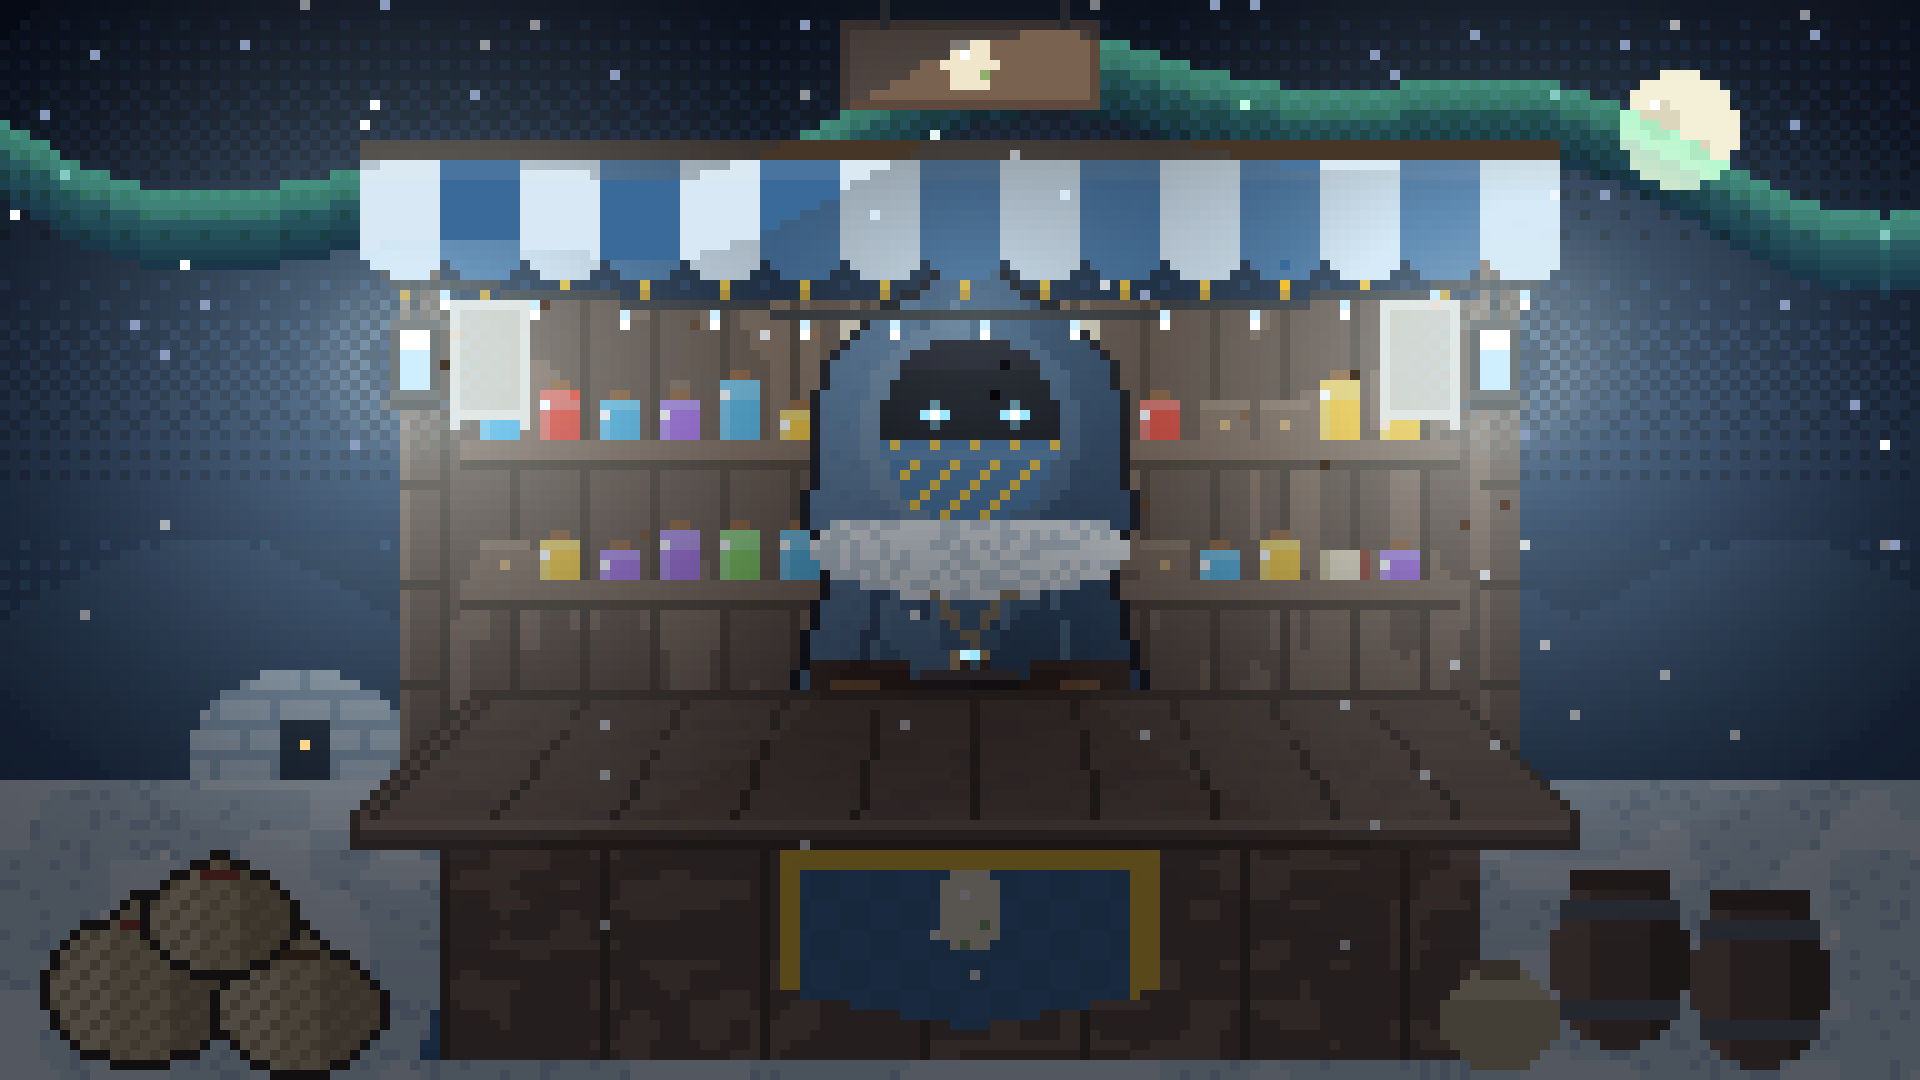
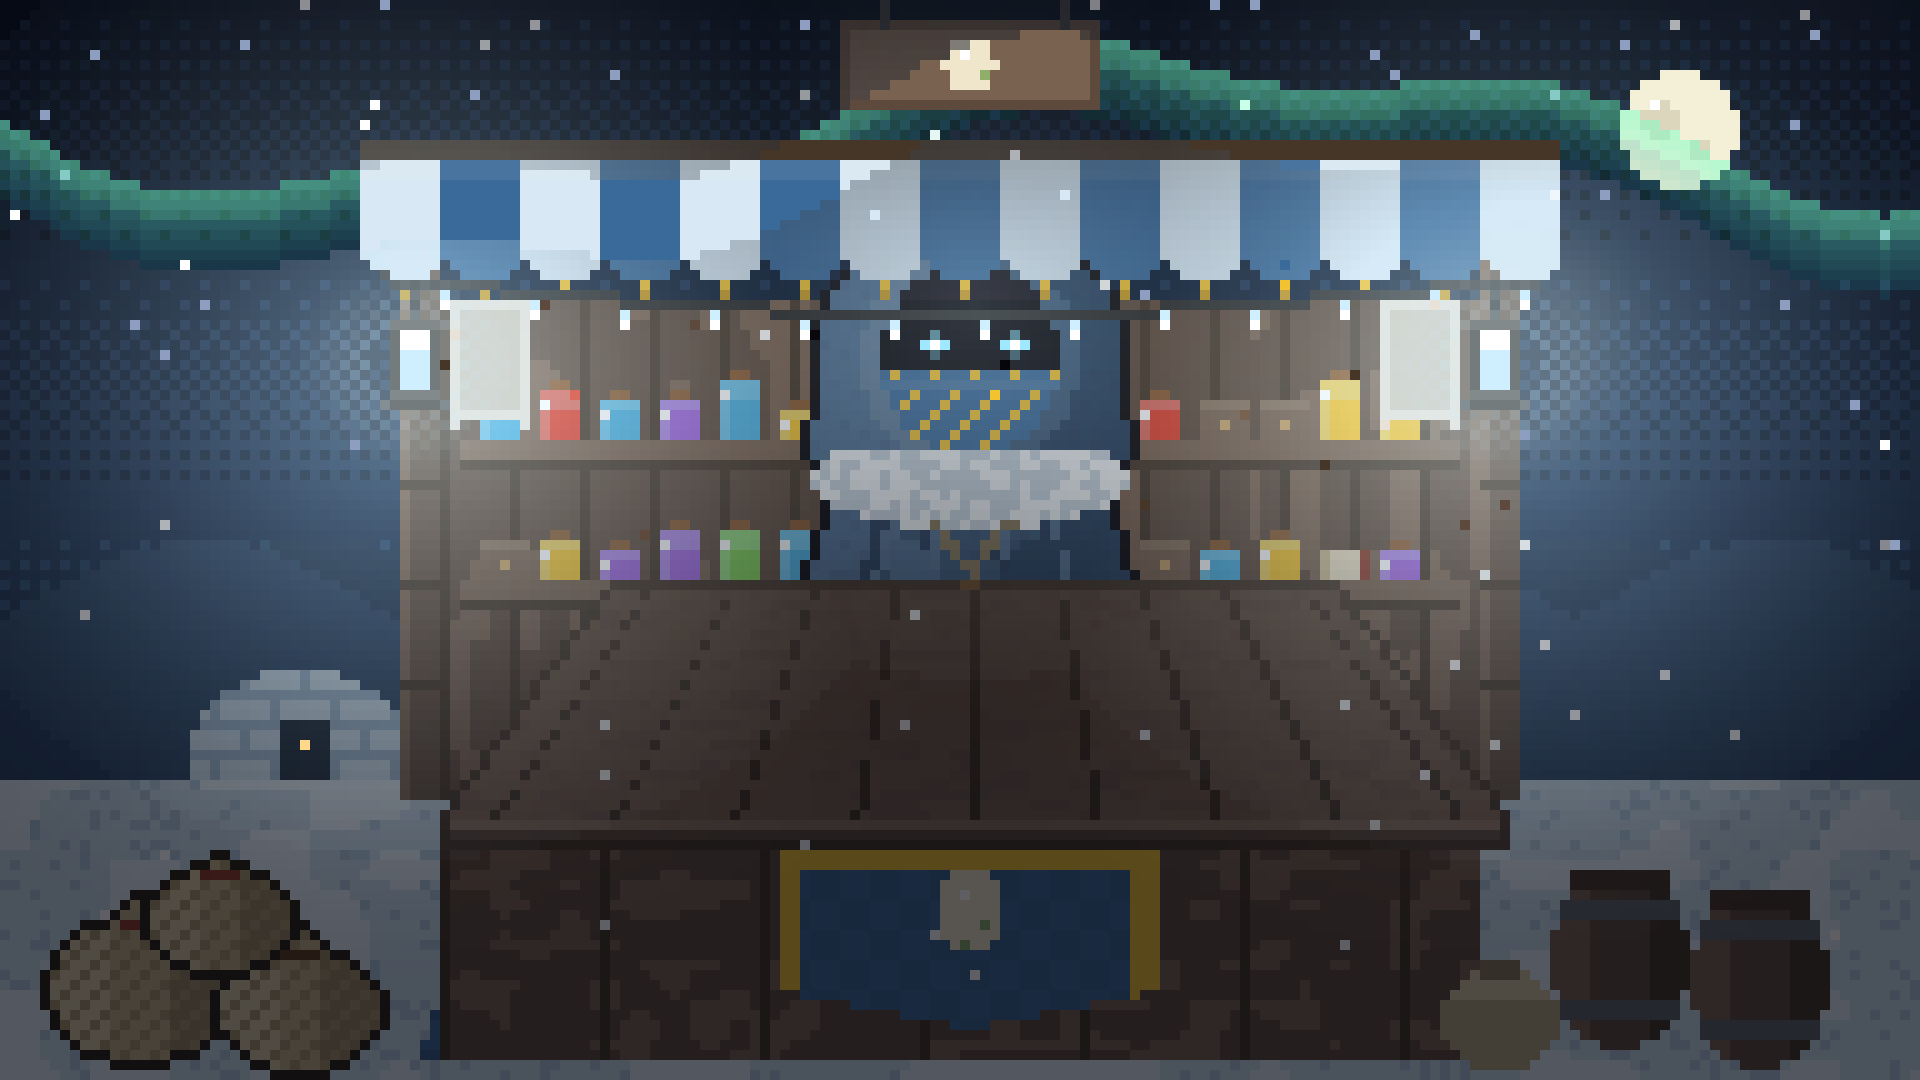
Marchands : plateau profond de nouveau mais beaucoup moins large, juste un peu plus que la rangée de caisses

diff --git a/style.css b/style.css
@@ -699,7 +699,7 @@
   .dp-luck-pips span { width: 9px; height: 9px; border-radius: 50%; border: 1.5px solid rgba(255,255,255,0.7); }
   .dp-luck-pips span.on { background: #6fd36f; border-color: #6fd36f; }
   .dp-luck-hint { font-size: 11px; opacity: 0.75; }
-  .dp-merchant-table { position: absolute; left: 50%; bottom: 28%; transform: translateX(-50%); z-index: 2; display: flex; gap: calc(var(--u) * 0.6); padding: 0; flex-wrap: nowrap; justify-content: center; align-items: flex-end; width: 56%; }
+  .dp-merchant-table { position: absolute; left: 50%; bottom: 30%; transform: translateX(-50%); z-index: 2; display: flex; gap: calc(var(--u) * 0.6); padding: 0; flex-wrap: nowrap; justify-content: center; align-items: flex-end; width: 56%; }
   .dp-merchant-card { background: rgba(255,255,255,0.16); backdrop-filter: blur(5px); -webkit-backdrop-filter: blur(5px); border: 2px solid rgba(255,255,255,0.4); border-radius: 12px; padding: 14px; display: flex; flex-direction: column; align-items: center; gap: 6px; width: 168px; box-shadow: 0 6px 14px rgba(0,0,0,0.4); flex: none; }
   .dp-merchant-card { flex: none; width: calc(var(--u) * 10.2); padding: calc(var(--u) * 0.6) !important; border-radius: calc(var(--u) * 0.6) !important; gap: calc(var(--u) * 0.25) !important; }
   .dp-merchant-card .dp-egg-img { width: calc(var(--u) * 5.4); height: calc(var(--u) * 5.4); }
@@ -710,9 +710,9 @@
   .dp-merchant-card[onclick] { cursor: pointer; }
   .dp-merchant-card-selected { border-color: var(--accent); box-shadow: 0 0 0 3px var(--accent-soft), 0 6px 14px rgba(0,0,0,0.4); }
 
-  .dp-merchant-table-objects { justify-content: center; gap: calc(var(--u) * 0.6); bottom: 28%; }
+  .dp-merchant-table-objects { justify-content: center; gap: calc(var(--u) * 0.4); bottom: 30%; }
 
-  .dp-crate-card { position: relative; width: calc(var(--u) * 8.6); height: calc(var(--u) * 7); flex: none; display: flex; align-items: flex-end; justify-content: center; }
+  .dp-crate-card { position: relative; width: calc(var(--u) * 7.2); height: calc(var(--u) * 6.9); flex: none; display: flex; align-items: flex-end; justify-content: center; }
   .dp-crate-card .dp-crate-img, .dp-crate-card .dp-object-icon { width: 100%; height: 100%; object-fit: contain; object-position: bottom; filter: drop-shadow(0 4px 8px rgba(0,0,0,0.5)); transition: transform .15s ease; }
   .dp-crate-card:hover .dp-crate-img, .dp-crate-card:hover .dp-object-icon { transform: scale(1.06); }
   .dp-crate-card .dp-object-icon { display: flex; align-items: center; justify-content: center; font-size: 54px; }

diff --git a/index.html b/index.html
@@ -15,7 +15,7 @@
 <link rel="preconnect" href="https://fonts.googleapis.com">
 <link rel="preconnect" href="https://fonts.gstatic.com" crossorigin>
 <link href="https://fonts.googleapis.com/css2?family=Press+Start+2P&family=Public+Sans:wght@400;500;600;700;800&display=swap" rel="stylesheet">
-<link rel="stylesheet" href="style.css?v=69">
+<link rel="stylesheet" href="style.css?v=70">
 <link rel="stylesheet" href="https://cdn.jsdelivr.net/npm/katex@0.16.11/dist/katex.min.css">
 <script src="https://cdn.jsdelivr.net/npm/katex@0.16.11/dist/katex.min.js"></script>
 <script src="https://cdn.jsdelivr.net/npm/katex@0.16.11/dist/contrib/auto-render.min.js"></script>
@@ -44,16 +44,16 @@
 </div>
 <div id="app"></div>
 <div class="toast-stack" id="toastStack"></div>
-<script src="js/01-core.js?v=172"></script>
-<script src="js/02-ia.js?v=172"></script>
-<script src="js/03-podcast-methodo.js?v=172"></script>
-<script src="js/04-prepa.js?v=172"></script>
-<script src="js/05-data-dinopark.js?v=172"></script>
-<script src="js/06-pages.js?v=172"></script>
-<script src="js/07-editeur-outils.js?v=172"></script>
-<script src="js/08-fenetres.js?v=172"></script>
-<script src="js/09-app.js?v=172"></script>
-<script src="js/10-calendrier-aujourdhui.js?v=172"></script>
-<script src="js/11-routeur-demarrage.js?v=172"></script>
+<script src="js/01-core.js?v=173"></script>
+<script src="js/02-ia.js?v=173"></script>
+<script src="js/03-podcast-methodo.js?v=173"></script>
+<script src="js/04-prepa.js?v=173"></script>
+<script src="js/05-data-dinopark.js?v=173"></script>
+<script src="js/06-pages.js?v=173"></script>
+<script src="js/07-editeur-outils.js?v=173"></script>
+<script src="js/08-fenetres.js?v=173"></script>
+<script src="js/09-app.js?v=173"></script>
+<script src="js/10-calendrier-aujourdhui.js?v=173"></script>
+<script src="js/11-routeur-demarrage.js?v=173"></script>
 </body>
 </html>

diff --git a/js/01-core.js b/js/01-core.js
@@ -2,7 +2,7 @@
 // Studino — stockage, images, audio, schémas
 // Fichier chargé dans l'ordre par index.html : les fichiers partagent les mêmes variables globales.
 
-  var APP_VERSION = "14.0"; // +0.1 à chaque push sur GitHub, pour que l'utilisateur puisse vérifier qu'il a bien la dernière version
+  var APP_VERSION = "14.1"; // +0.1 à chaque push sur GitHub, pour que l'utilisateur puisse vérifier qu'il a bien la dernière version
   // Installation sur l'écran d'accueil : Chrome/Edge/Android proposent l'installation par un événement
   // qu'on garde pour le bouton des paramètres ; l'iPhone n'en a pas, on explique la marche à suivre.
   var installPromptEvent = null;

diff --git a/sw.js b/sw.js
@@ -2,7 +2,7 @@
 // Pages, scripts et styles : toujours la version en ligne d'abord (pour avoir les mises à jour),
 // la copie gardée seulement si le réseau ne répond pas. Images et sons : la copie gardée d'abord.
 // Les autres sites (IA Gemini, bibliothèques) ne passent pas par ici.
-var CACHE = "studino-v8"; // à changer quand les images changent : les anciennes copies en cache sont supprimées
+var CACHE = "studino-v9"; // à changer quand les images changent : les anciennes copies en cache sont supprimées
 
 self.addEventListener("install", function () { self.skipWaiting(); });
 self.addEventListener("activate", function (e) {
